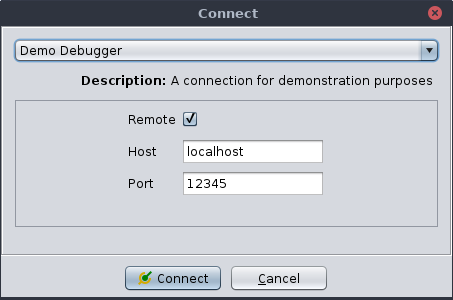
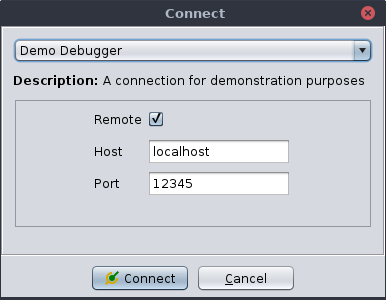
GP-1416: Fixed alignment of 'Description' in Debugger Connect dialog.

diff --git a/Ghidra/Debug/Debugger/src/main/java/ghidra/app/plugin/core/debug/service/model/DebuggerConnectDialog.java b/Ghidra/Debug/Debugger/src/main/java/ghidra/app/plugin/core/debug/service/model/DebuggerConnectDialog.java
@@ -171,25 +171,29 @@ public class DebuggerConnectDialog extends DialogComponentProvider
 		}
 	}
 
+	@Override
 	public void dispose() {
 		modelService.removeFactoriesChangedListener(listener);
 		clearFactories();
+		super.dispose();
 	}
 
 	protected void populateComponents() {
 		JPanel panel = new JPanel(new BorderLayout());
-
 		panel.setBorder(new EmptyBorder(10, 10, 10, 10));
 
 		Box topBox = Box.createVerticalBox();
-		panel.add(topBox, BorderLayout.NORTH);
-
 		dropdown = new JComboBox<>(dropdownModel);
 		topBox.add(dropdown);
 
+		// Avoid Swing's automatic indentation
+		JPanel inner = new JPanel(new BorderLayout());
 		description = new JLabel(HTML_BOLD_DESCRIPTION + "</html>");
 		description.setBorder(new EmptyBorder(10, 0, 10, 0));
-		topBox.add(description);
+		inner.add(description);
+		topBox.add(inner);
+
+		panel.add(topBox, BorderLayout.NORTH);
 
 		layout = new PairLayout(5, 5);
 		pairPanel = new JPanel(layout);
